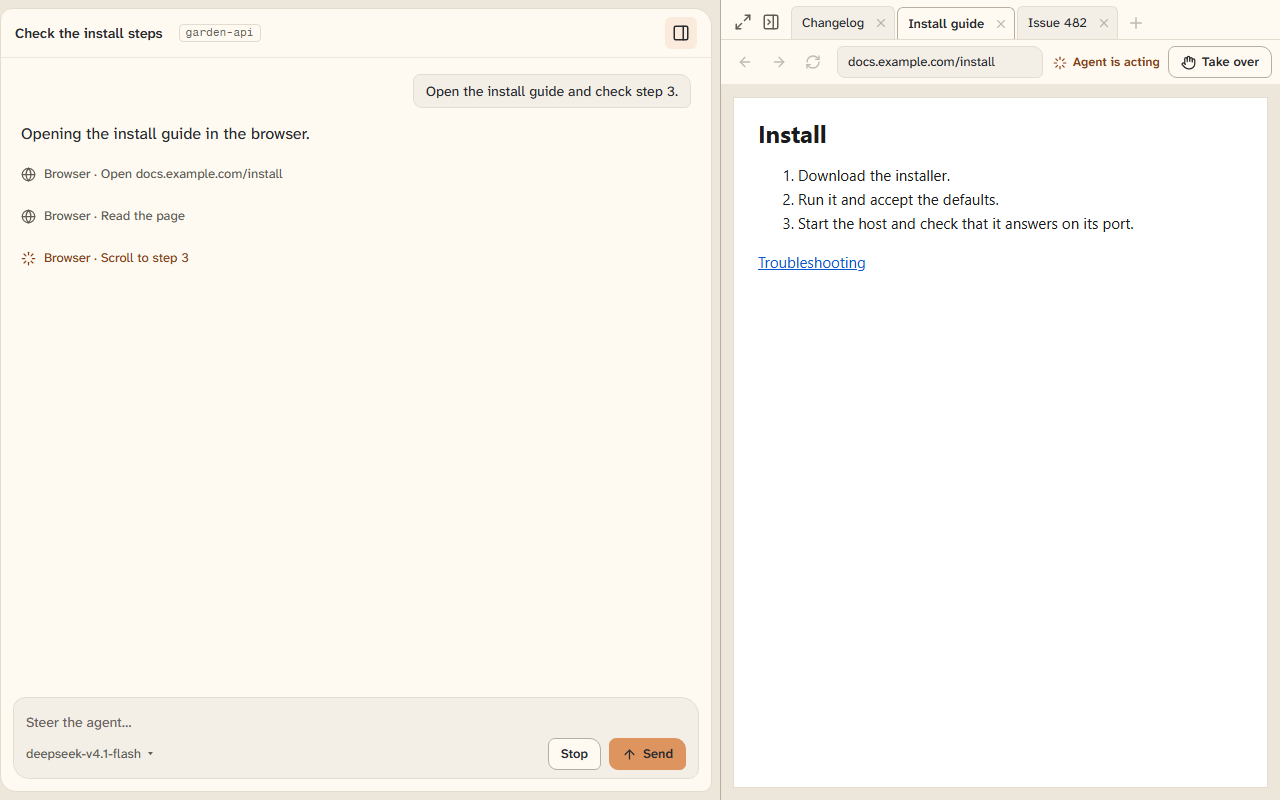
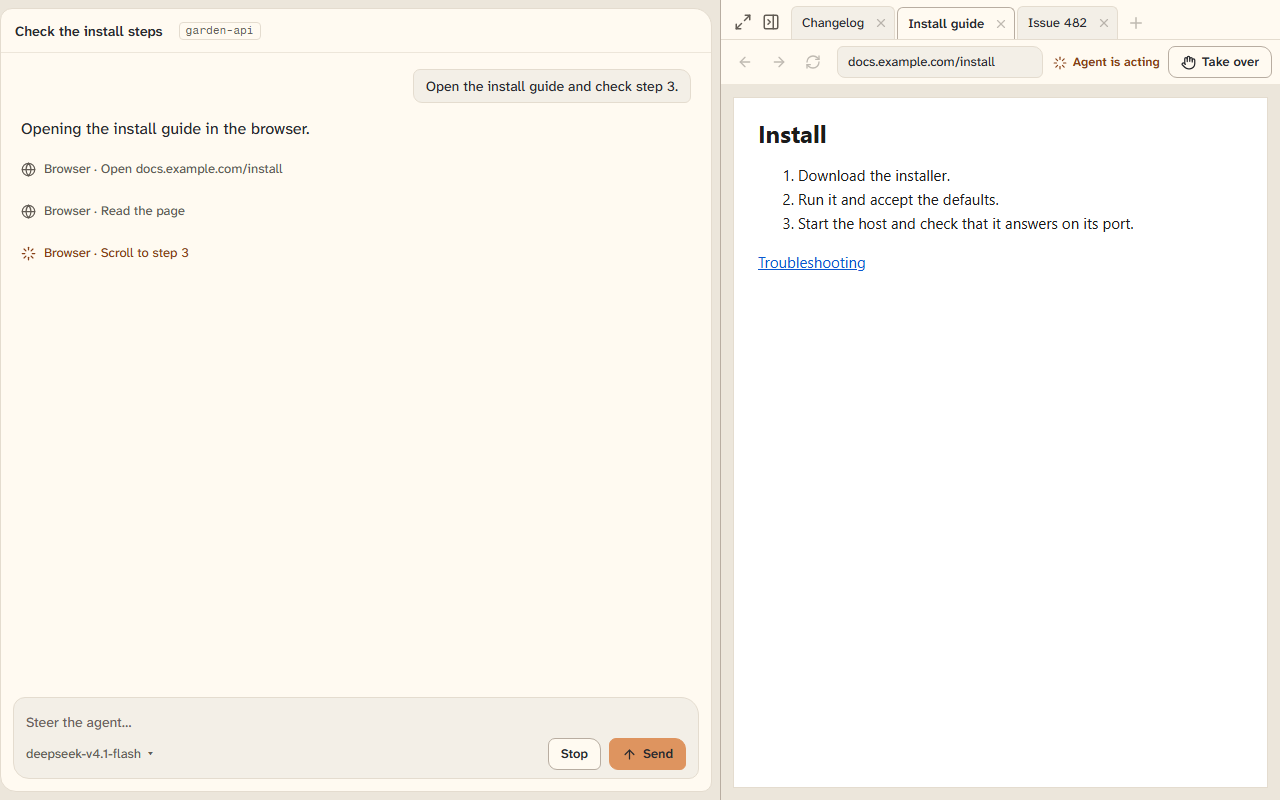
Browser pane: drop duplicate hide controls

diff --git a/design/updates-and-browser/app.js b/design/updates-and-browser/app.js
@@ -186,7 +186,7 @@
     const hasTabs = b.tabs.length > 0 && !dead;
     const tabs = hasTabs ? b.tabs.map((t, i) => `<div class="btab ${i === b.tab ? 'on' : ''}"><button class="bt" role="tab" aria-selected="${i === b.tab}" ${A('btab', i)}>${t.t}</button><button class="iconbtn sm" aria-label="Close ${t.t}" ${lock ? 'disabled' : A('bclose', i)}>${ic('x', 14)}</button></div>`).join('') : '';
     const addr = hasTabs ? b.tabs[b.tab].u : '';
-    const acts = `<div class="pact">${phone ? '' : iconBtn(b.max ? 'minimize-2' : 'maximize-2', b.max ? 'Restore the browser' : 'Maximize the browser', 'bmax')}${iconBtn('panel-right-close', 'Hide the browser', phone ? 'pv' : 'pane', phone ? 'chat' : undefined)}</div>`;
+    const acts = phone ? '' : `<div class="pact">${iconBtn(b.max ? 'minimize-2' : 'maximize-2', b.max ? 'Restore the browser' : 'Maximize the browser', 'bmax')}${iconBtn('panel-right-close', 'Hide the browser', 'pane')}</div>`;
     const activity = acting ? `<span class="actnow" role="status"><span class="spin">${ic('loader', 14)}</span>Agent is acting</span>` : '';
     const control = dead ? '' : (ctrl ? btn('Hand back', { icon: 'bot', act: 'handback', cls: 'ctl' }) : btn('Take over', { icon: 'hand', act: 'takeover', cls: 'ctl' }));
     const bsz = phone ? 20 : 16;
@@ -209,7 +209,7 @@
   }
   function browserDesktop() {
     const open = M.br.pane;
-    return `<div class="bwin ${open ? '' : 'closed'} ${open && M.br.max ? 'max' : ''}"><div class="main"><div class="topbar"><span class="ct">Check the install steps</span><span class="tag mono">garden-api</span><span class="grow" style="flex:1"></span><button class="iconbtn ${open ? 'on' : ''}" aria-label="Browser pane" aria-pressed="${open}" title="Browser pane" ${A('pane')}>${ic('panel-right', 18)}</button></div>
+    return `<div class="bwin ${open ? '' : 'closed'} ${open && M.br.max ? 'max' : ''}"><div class="main"><div class="topbar"><span class="ct">Check the install steps</span><span class="tag mono">garden-api</span><span class="grow" style="flex:1"></span>${open ? '' : iconBtn('panel-right', 'Show the browser', 'pane')}</div>
       <div class="stream">${chatBody(false)}</div>${composer(false)}</div>${open ? browserPane(false) : ''}</div>`;
   }
   function browserPhone() {
